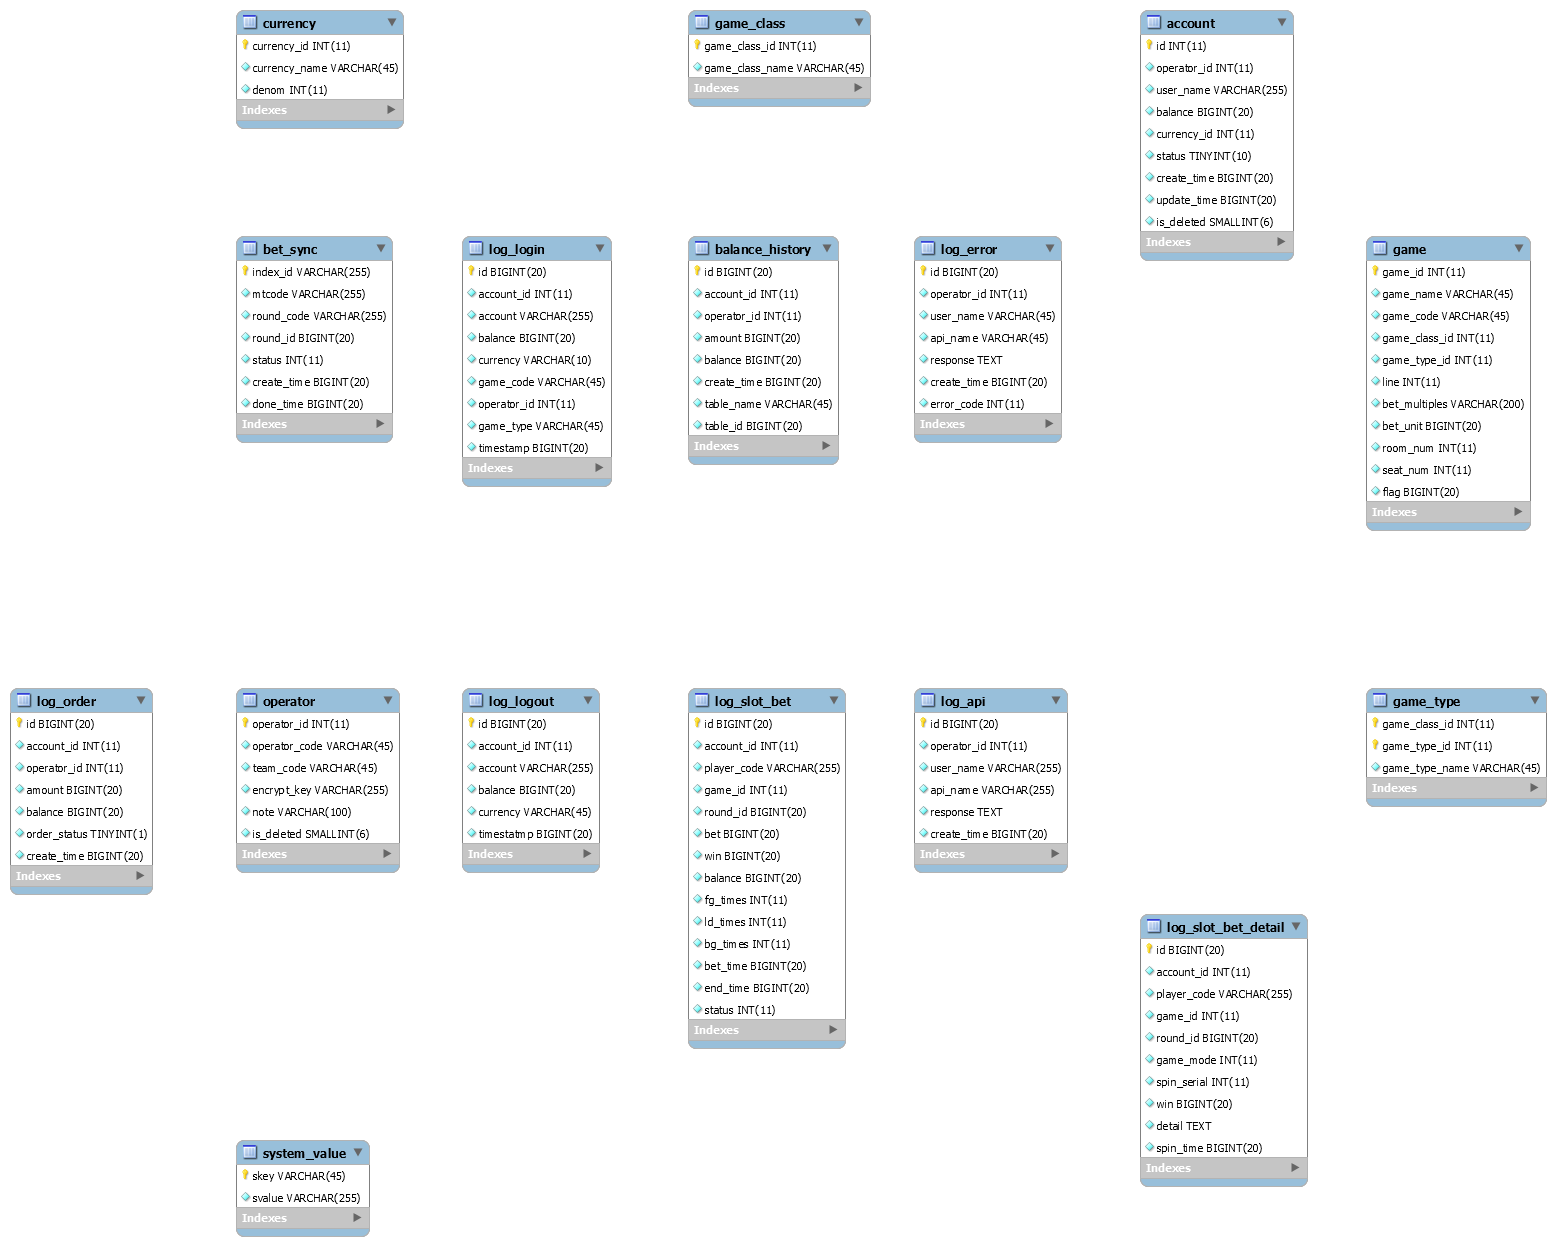
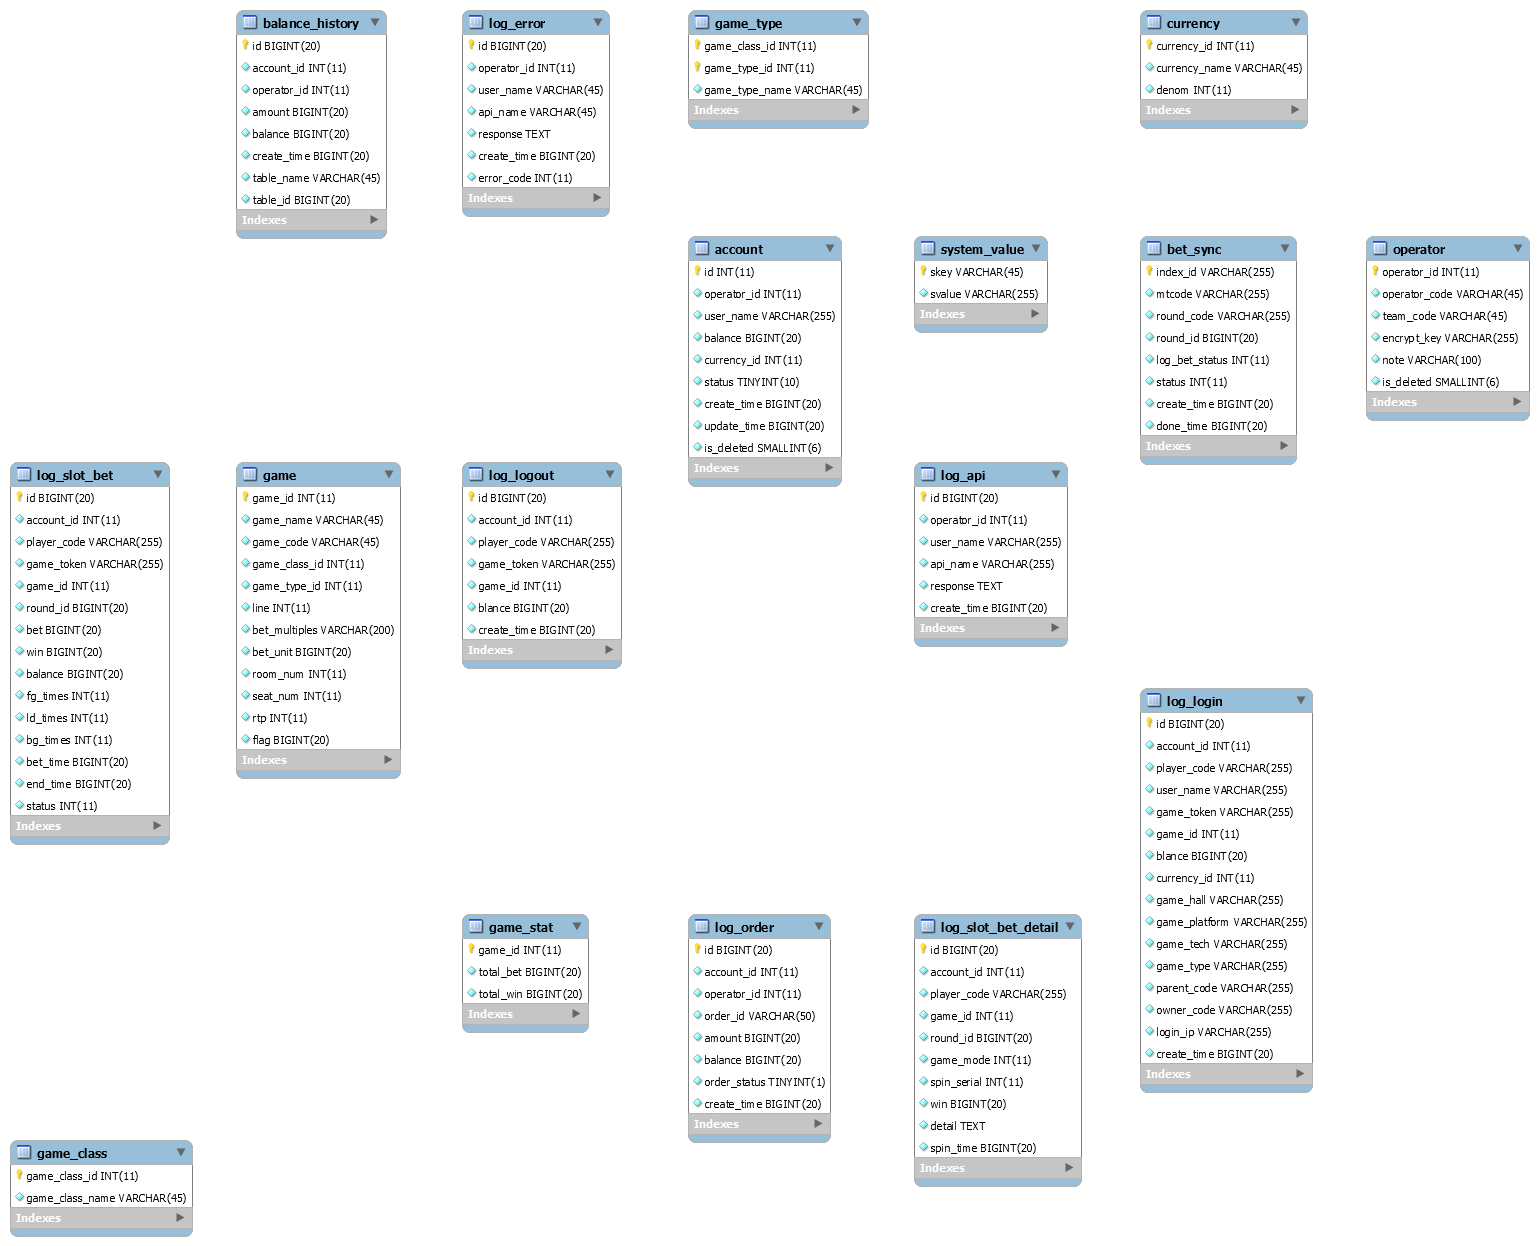
no message

diff --git a/server/digame_db.html b/server/digame_db.html
@@ -6,6 +6,7 @@
 <li><a href="#currency"><b>currency</b></a></li>
 <li><a href="#game"><b>game</b></a></li>
 <li><a href="#game_class"><b>game_class</b></a></li>
+<li><a href="#game_stat"><b>game_stat</b></a></li>
 <li><a href="#game_type"><b>game_type</b></a></li>
 <li><a href="#log_api"><b>log_api</b></a></li>
 <li><a href="#log_error"><b>log_error</b></a></li>
@@ -87,6 +88,7 @@
 <tr><td><code>mtcode</code></td><td>VARCHAR(255)</td><td>NOT NULL</td><td> </td><td>交易代碼</td></tr>
 <tr><td><code>round_code</code></td><td>VARCHAR(255)</td><td>NOT NULL</td><td> </td><td>局號</td></tr>
 <tr><td><code>round_id</code></td><td>BIGINT</td><td>NOT NULL</td><td> </td><td>局ID</td></tr>
+<tr><td><code>log_bet_status</code></td><td>INT</td><td>NOT NULL</td><td> </td><td>處理前的注單狀態<br />cq9用<br />0: 押注成功<br />1: win api失敗<br />2: win api成功<br />3: end api 成功<br />4: 已補帳</td></tr>
 <tr><td><code>status</code></td><td>INT</td><td>NOT NULL</td><td> </td><td>注單狀態<br />0: 待sync<br />1: 處理完畢</td></tr>
 <tr><td><code>create_time</code></td><td>BIGINT</td><td>NOT NULL</td><td> </td><td>建立時間</td></tr>
 <tr><td><code>done_time</code></td><td>BIGINT</td><td>NOT NULL</td><td> </td><td>完成時間</td></tr>
@@ -141,6 +143,7 @@
 <tr><td><code>bet_unit</code></td><td>BIGINT</td><td>NOT NULL</td><td> </td><td>押注單位<br />slot使用<br />bet_unit x bet_multiple x line = total bet</td></tr>
 <tr><td><code>room_num</code></td><td>INT</td><td>NOT NULL</td><td> </td><td>預開的房間數</td></tr>
 <tr><td><code>seat_num</code></td><td>INT</td><td>NOT NULL</td><td> </td><td>預開的座位數</td></tr>
+<tr><td><code>rtp</code></td><td>INT</td><td>NOT NULL</td><td> </td><td>預設的 rtp</td></tr>
 <tr><td><code>flag</code></td><td>BIGINT</td><td>NOT NULL</td><td> </td><td>旗標<br />每一個bit表示一個開關<br />0: 遊戲是否開放</td></tr>
 </tbody></table>
 
@@ -170,6 +173,28 @@
 <table><thead><tr class="header"><th align="left">Name</th><th align="left">Columns</th><th align="left">Data type</th><th align="left">Description</th></tr></thead><tbody>
 
 <tr><td>PRIMARY</td><td><code>game_class_id</code></td><td>PRIMARY</td><td> </td></tr>
+</tbody></table><a href="#d1_doc_gen_contents">To contents</a>
+
+<h2 id="game_stat"> Table: <code>game_stat</code></h2>
+
+<h3>Description:</h3>
+
+<p>遊戲統計</p>
+
+<h3>Columns:</h3>
+
+<table><thead><tr class="header"><th align="left">Column</th><th align="left">Data type</th><th align="left">Attribute</th><th align="left">Default</th><th align="left">Description</th></tr></thead><tbody>
+
+<tr><td><code>game_id</code></td><td>INT</td><td>PRIMARY, NOT NULL</td><td> </td><td>遊戲ID</td></tr>
+<tr><td><code>total_bet</code></td><td>BIGINT</td><td>NOT NULL</td><td> </td><td>總押注</td></tr>
+<tr><td><code>total_win</code></td><td>BIGINT</td><td>NOT NULL</td><td> </td><td>總贏的金額</td></tr>
+</tbody></table>
+
+<h3>Indexes:</h3>
+
+<table><thead><tr class="header"><th align="left">Name</th><th align="left">Columns</th><th align="left">Data type</th><th align="left">Description</th></tr></thead><tbody>
+
+<tr><td>PRIMARY</td><td><code>game_id</code></td><td>PRIMARY</td><td> </td></tr>
 </tbody></table><a href="#d1_doc_gen_contents">To contents</a>
 
 <h2 id="game_type"> Table: <code>game_type</code></h2>
@@ -249,21 +274,28 @@
 
 <h3>Description:</h3>
 
-<p></p>
+<p>登入資訊</p>
 
 <h3>Columns:</h3>
 
 <table><thead><tr class="header"><th align="left">Column</th><th align="left">Data type</th><th align="left">Attribute</th><th align="left">Default</th><th align="left">Description</th></tr></thead><tbody>
 
-<tr><td><code>id</code></td><td>BIGINT</td><td>PRIMARY, AUTO INCREMENTS, NOT NULL</td><td> </td><td> </td></tr>
-<tr><td><code>account_id</code></td><td>INT</td><td>NOT NULL</td><td> </td><td> </td></tr>
-<tr><td><code>account</code></td><td>VARCHAR(255)</td><td>NOT NULL</td><td> </td><td> </td></tr>
-<tr><td><code>balance</code></td><td>BIGINT</td><td>NOT NULL</td><td> </td><td> </td></tr>
-<tr><td><code>currency</code></td><td>VARCHAR(10)</td><td>NOT NULL</td><td> </td><td> </td></tr>
-<tr><td><code>game_code</code></td><td>VARCHAR(45)</td><td>NOT NULL</td><td> </td><td> </td></tr>
-<tr><td><code>operator_id</code></td><td>INT</td><td>NOT NULL</td><td> </td><td> </td></tr>
-<tr><td><code>game_type</code></td><td>VARCHAR(45)</td><td>NOT NULL</td><td> </td><td> </td></tr>
-<tr><td><code>timestamp</code></td><td>BIGINT</td><td>NOT NULL</td><td> </td><td> </td></tr>
+<tr><td><code>id</code></td><td>BIGINT</td><td>PRIMARY, AUTO INCREMENTS, NOT NULL</td><td> </td><td>流水號</td></tr>
+<tr><td><code>account_id</code></td><td>INT</td><td>NOT NULL</td><td> </td><td>帳號ID</td></tr>
+<tr><td><code>player_code</code></td><td>VARCHAR(255)</td><td>NOT NULL</td><td> </td><td>玩家代碼<br />cq9用</td></tr>
+<tr><td><code>user_name</code></td><td>VARCHAR(255)</td><td>NOT NULL</td><td> </td><td>使用者名稱</td></tr>
+<tr><td><code>game_token</code></td><td>VARCHAR(255)</td><td>NOT NULL</td><td> </td><td>遊戲token</td></tr>
+<tr><td><code>game_id</code></td><td>INT</td><td>NOT NULL</td><td> </td><td>遊戲ID</td></tr>
+<tr><td><code>blance</code></td><td>BIGINT</td><td>NOT NULL</td><td> </td><td>餘額</td></tr>
+<tr><td><code>currency_id</code></td><td>INT</td><td>NOT NULL</td><td> </td><td>貨幣ID</td></tr>
+<tr><td><code>game_hall</code></td><td>VARCHAR(255)</td><td>NOT NULL</td><td> </td><td>遊戲廠商<br />cq9用</td></tr>
+<tr><td><code>game_platform</code></td><td>VARCHAR(255)</td><td>NOT NULL</td><td> </td><td>遊戲平台<br />cq9用</td></tr>
+<tr><td><code>game_tech</code></td><td>VARCHAR(255)</td><td>NOT NULL</td><td> </td><td>使用技術<br />cq9用</td></tr>
+<tr><td><code>game_type</code></td><td>VARCHAR(255)</td><td>NOT NULL</td><td> </td><td>遊戲類型<br />cq9用</td></tr>
+<tr><td><code>parent_code</code></td><td>VARCHAR(255)</td><td>NOT NULL</td><td> </td><td>代理ID<br />cq9用</td></tr>
+<tr><td><code>owner_code</code></td><td>VARCHAR(255)</td><td>NOT NULL</td><td> </td><td>上層代理ID<br />cq9用</td></tr>
+<tr><td><code>login_ip</code></td><td>VARCHAR(255)</td><td>NOT NULL</td><td> </td><td>登入IP</td></tr>
+<tr><td><code>create_time</code></td><td>BIGINT</td><td>NOT NULL</td><td> </td><td>建立時間</td></tr>
 </tbody></table>
 
 <h3>Indexes:</h3>
@@ -277,18 +309,19 @@
 
 <h3>Description:</h3>
 
-<p></p>
+<p>登出資訊</p>
 
 <h3>Columns:</h3>
 
 <table><thead><tr class="header"><th align="left">Column</th><th align="left">Data type</th><th align="left">Attribute</th><th align="left">Default</th><th align="left">Description</th></tr></thead><tbody>
 
-<tr><td><code>id</code></td><td>BIGINT</td><td>PRIMARY, AUTO INCREMENTS, NOT NULL</td><td> </td><td> </td></tr>
-<tr><td><code>account_id</code></td><td>INT</td><td>NOT NULL</td><td> </td><td> </td></tr>
-<tr><td><code>account</code></td><td>VARCHAR(255)</td><td>NOT NULL</td><td> </td><td> </td></tr>
-<tr><td><code>balance</code></td><td>BIGINT</td><td>NOT NULL</td><td> </td><td> </td></tr>
-<tr><td><code>currency</code></td><td>VARCHAR(45)</td><td>NOT NULL</td><td> </td><td> </td></tr>
-<tr><td><code>timestatmp</code></td><td>BIGINT</td><td>NOT NULL</td><td> </td><td> </td></tr>
+<tr><td><code>id</code></td><td>BIGINT</td><td>PRIMARY, AUTO INCREMENTS, NOT NULL</td><td> </td><td>流水號</td></tr>
+<tr><td><code>account_id</code></td><td>INT</td><td>NOT NULL</td><td> </td><td>帳號ID</td></tr>
+<tr><td><code>player_code</code></td><td>VARCHAR(255)</td><td>NOT NULL</td><td> </td><td>玩家代碼<br />cq9用</td></tr>
+<tr><td><code>game_token</code></td><td>VARCHAR(255)</td><td>NOT NULL</td><td> </td><td>遊戲token</td></tr>
+<tr><td><code>game_id</code></td><td>INT</td><td>NOT NULL</td><td> </td><td>遊戲ID</td></tr>
+<tr><td><code>blance</code></td><td>BIGINT</td><td>NOT NULL</td><td> </td><td>餘額</td></tr>
+<tr><td><code>create_time</code></td><td>BIGINT</td><td>NOT NULL</td><td> </td><td>建立時間</td></tr>
 </tbody></table>
 
 <h3>Indexes:</h3>
@@ -311,6 +344,7 @@
 <tr><td><code>id</code></td><td>BIGINT</td><td>PRIMARY, AUTO INCREMENTS, NOT NULL</td><td> </td><td>單號</td></tr>
 <tr><td><code>account_id</code></td><td>INT</td><td>NOT NULL</td><td> </td><td>帳號ID</td></tr>
 <tr><td><code>operator_id</code></td><td>INT</td><td>NOT NULL</td><td> </td><td>營運商ID</td></tr>
+<tr><td><code>order_id</code></td><td>VARCHAR(50)</td><td>NOT NULL</td><td> </td><td> </td></tr>
 <tr><td><code>amount</code></td><td>BIGINT</td><td>NOT NULL</td><td> </td><td>金額<br />正數: 轉入錢包<br />負數: 轉出錢包</td></tr>
 <tr><td><code>balance</code></td><td>BIGINT</td><td>NOT NULL</td><td> </td><td>操作完後的餘額</td></tr>
 <tr><td><code>order_status</code></td><td>TINYINT</td><td>NOT NULL</td><td> </td><td>交易狀態<br />0: 成功<br />1: 餘額不足</td></tr>
@@ -337,6 +371,7 @@
 <tr><td><code>id</code></td><td>BIGINT</td><td>PRIMARY, AUTO INCREMENTS, NOT NULL</td><td> </td><td>流水號</td></tr>
 <tr><td><code>account_id</code></td><td>INT</td><td>NOT NULL</td><td> </td><td>帳號ID</td></tr>
 <tr><td><code>player_code</code></td><td>VARCHAR(255)</td><td>NOT NULL</td><td> </td><td>玩家代碼<br />cq9用</td></tr>
+<tr><td><code>game_token</code></td><td>VARCHAR(255)</td><td>NOT NULL</td><td> </td><td>遊戲token</td></tr>
 <tr><td><code>game_id</code></td><td>INT</td><td>NOT NULL</td><td> </td><td>遊戲ID</td></tr>
 <tr><td><code>round_id</code></td><td>BIGINT</td><td>NOT NULL, UNIQUE</td><td> </td><td>局ID</td></tr>
 <tr><td><code>bet</code></td><td>BIGINT</td><td>NOT NULL</td><td> </td><td>押注</td></tr>
@@ -372,7 +407,7 @@
 <tr><td><code>account_id</code></td><td>INT</td><td>NOT NULL</td><td> </td><td>帳號ID</td></tr>
 <tr><td><code>player_code</code></td><td>VARCHAR(255)</td><td>NOT NULL</td><td> </td><td>玩家代碼<br />cq9用</td></tr>
 <tr><td><code>game_id</code></td><td>INT</td><td>NOT NULL</td><td> </td><td>遊戲ID</td></tr>
-<tr><td><code>round_id</code></td><td>BIGINT</td><td>NOT NULL, UNIQUE</td><td> </td><td>局ID</td></tr>
+<tr><td><code>round_id</code></td><td>BIGINT</td><td>NOT NULL</td><td> </td><td>局ID</td></tr>
 <tr><td><code>game_mode</code></td><td>INT</td><td>NOT NULL</td><td> </td><td>遊戲模式<br />0: base game<br />1: bonus game<br />2: lucky draw<br />3: free game</td></tr>
 <tr><td><code>spin_serial</code></td><td>INT</td><td>NOT NULL</td><td> </td><td>此局一輪中bonus game play、lucky draw play、free game spin的流水號</td></tr>
 <tr><td><code>win</code></td><td>BIGINT</td><td>NOT NULL</td><td> </td><td>贏的金額</td></tr>
@@ -385,7 +420,6 @@
 <table><thead><tr class="header"><th align="left">Name</th><th align="left">Columns</th><th align="left">Data type</th><th align="left">Description</th></tr></thead><tbody>
 
 <tr><td>PRIMARY</td><td><code>id</code></td><td>PRIMARY</td><td> </td></tr>
-<tr><td>round_id_UNIQUE</td><td><code>round_id</code></td><td>UNIQUE</td><td> </td></tr>
 </tbody></table><a href="#d1_doc_gen_contents">To contents</a>
 
 <h2 id="operator"> Table: <code>operator</code></h2>
@@ -423,7 +457,7 @@
 
 <table><thead><tr class="header"><th align="left">Column</th><th align="left">Data type</th><th align="left">Attribute</th><th align="left">Default</th><th align="left">Description</th></tr></thead><tbody>
 
-<tr><td><code>skey</code></td><td>VARCHAR(45)</td><td>PRIMARY, NOT NULL</td><td> </td><td>key<br />last_bet_sync_time: 上次注單與cq9同步的時間<br />slot_round_id: slot的round id, 當作除注單round id外的另一個備援資料<br />money_fraction_multiple: 錢小數轉整數時要乘的倍數; 以整數型態保存, 轉為小數需除以此欄位</td></tr>
+<tr><td><code>skey</code></td><td>VARCHAR(45)</td><td>PRIMARY, NOT NULL</td><td> </td><td>key<br />last_bet_sync_time: 上次注單與cq9同步的時間<br />slot_round_id: slot的round id, 當作除注單round id外的另一個備援資料<br />money_fraction_multiple: 錢小數轉整數時要乘的倍數; 以整數型態保存, 轉為小數需除以此欄位<br />round_code_prefix: 局號 prefix<br />cq9_env: cq9 環境<br />cq9_auth_header_key: cq9 api auth header key<br />cq9_auth_header_value: cq9 api auth header value<br />cq9_site_url: cq9 API base url<br />cq9_max_win: cq9單一spin允許的最大贏取金額</td></tr>
 <tr><td><code>svalue</code></td><td>VARCHAR(255)</td><td>NOT NULL</td><td> </td><td>value</td></tr>
 </tbody></table>
 

diff --git a/server/digame_db.md b/server/digame_db.md
@@ -71,6 +71,7 @@ cq9待同步注單的資料
 | `mtcode` | VARCHAR(255) | Not null |   | 交易代碼 |
 | `round_code` | VARCHAR(255) | Not null |   | 局號 |
 | `round_id` | BIGINT | Not null |   | 局ID |
+| `log_bet_status` | INT | Not null |   | 處理前的注單狀態<br />cq9用<br />0: 押注成功<br />1: win api失敗<br />2: win api成功<br />3: end api 成功<br />4: 已補帳 |
 | `status` | INT | Not null |   | 注單狀態<br />0: 待sync<br />1: 處理完畢 |
 | `create_time` | BIGINT | Not null |   | 建立時間 |
 | `done_time` | BIGINT | Not null |   | 完成時間 |
@@ -125,6 +126,7 @@ cq9待同步注單的資料
 | `bet_unit` | BIGINT | Not null |   | 押注單位<br />slot使用<br />bet_unit x bet_multiple x line = total bet |
 | `room_num` | INT | Not null |   | 預開的房間數 |
 | `seat_num` | INT | Not null |   | 預開的座位數 |
+| `rtp` | INT | Not null |   | 預設的 rtp |
 | `flag` | BIGINT | Not null |   | 旗標<br />每一個bit表示一個開關<br />0: 遊戲是否開放 |
 
 
@@ -154,6 +156,28 @@ cq9待同步注單的資料
 | Name | Columns | Type | Description |
 | --- | --- | --- | --- |
 | PRIMARY | `game_class_id` | PRIMARY |   |
+
+
+## Table: `game_stat`
+
+### Description: 
+
+遊戲統計
+
+### Columns: 
+
+| Column | Data type | Attributes | Default | Description |
+| --- | --- | --- | --- | ---  |
+| `game_id` | INT | PRIMARY, Not null |   | 遊戲ID |
+| `total_bet` | BIGINT | Not null |   | 總押注 |
+| `total_win` | BIGINT | Not null |   | 總贏的金額 |
+
+
+### Indices: 
+
+| Name | Columns | Type | Description |
+| --- | --- | --- | --- |
+| PRIMARY | `game_id` | PRIMARY |   |
 
 
 ## Table: `game_type`
@@ -233,21 +257,28 @@ api request/response紀錄
 
 ### Description: 
 
-
+登入資訊
 
 ### Columns: 
 
 | Column | Data type | Attributes | Default | Description |
 | --- | --- | --- | --- | ---  |
-| `id` | BIGINT | PRIMARY, Auto increments, Not null |   |   |
-| `account_id` | INT | Not null |   |   |
-| `account` | VARCHAR(255) | Not null |   |   |
-| `balance` | BIGINT | Not null |   |   |
-| `currency` | VARCHAR(10) | Not null |   |   |
-| `game_code` | VARCHAR(45) | Not null |   |   |
-| `operator_id` | INT | Not null |   |   |
-| `game_type` | VARCHAR(45) | Not null |   |   |
-| `timestamp` | BIGINT | Not null |   |   |
+| `id` | BIGINT | PRIMARY, Auto increments, Not null |   | 流水號 |
+| `account_id` | INT | Not null |   | 帳號ID |
+| `player_code` | VARCHAR(255) | Not null |   | 玩家代碼<br />cq9用 |
+| `user_name` | VARCHAR(255) | Not null |   | 使用者名稱 |
+| `game_token` | VARCHAR(255) | Not null |   | 遊戲token |
+| `game_id` | INT | Not null |   | 遊戲ID |
+| `blance` | BIGINT | Not null |   | 餘額 |
+| `currency_id` | INT | Not null |   | 貨幣ID |
+| `game_hall` | VARCHAR(255) | Not null |   | 遊戲廠商<br />cq9用 |
+| `game_platform` | VARCHAR(255) | Not null |   | 遊戲平台<br />cq9用 |
+| `game_tech` | VARCHAR(255) | Not null |   | 使用技術<br />cq9用 |
+| `game_type` | VARCHAR(255) | Not null |   | 遊戲類型<br />cq9用 |
+| `parent_code` | VARCHAR(255) | Not null |   | 代理ID<br />cq9用 |
+| `owner_code` | VARCHAR(255) | Not null |   | 上層代理ID<br />cq9用 |
+| `login_ip` | VARCHAR(255) | Not null |   | 登入IP |
+| `create_time` | BIGINT | Not null |   | 建立時間 |
 
 
 ### Indices: 
@@ -261,18 +292,19 @@ api request/response紀錄
 
 ### Description: 
 
-
+登出資訊
 
 ### Columns: 
 
 | Column | Data type | Attributes | Default | Description |
 | --- | --- | --- | --- | ---  |
-| `id` | BIGINT | PRIMARY, Auto increments, Not null |   |   |
-| `account_id` | INT | Not null |   |   |
-| `account` | VARCHAR(255) | Not null |   |   |
-| `balance` | BIGINT | Not null |   |   |
-| `currency` | VARCHAR(45) | Not null |   |   |
-| `timestatmp` | BIGINT | Not null |   |   |
+| `id` | BIGINT | PRIMARY, Auto increments, Not null |   | 流水號 |
+| `account_id` | INT | Not null |   | 帳號ID |
+| `player_code` | VARCHAR(255) | Not null |   | 玩家代碼<br />cq9用 |
+| `game_token` | VARCHAR(255) | Not null |   | 遊戲token |
+| `game_id` | INT | Not null |   | 遊戲ID |
+| `blance` | BIGINT | Not null |   | 餘額 |
+| `create_time` | BIGINT | Not null |   | 建立時間 |
 
 
 ### Indices: 
@@ -295,6 +327,7 @@ api request/response紀錄
 | `id` | BIGINT | PRIMARY, Auto increments, Not null |   | 單號 |
 | `account_id` | INT | Not null |   | 帳號ID |
 | `operator_id` | INT | Not null |   | 營運商ID |
+| `order_id` | VARCHAR(50) | Not null |   |   |
 | `amount` | BIGINT | Not null |   | 金額<br />正數: 轉入錢包<br />負數: 轉出錢包 |
 | `balance` | BIGINT | Not null |   | 操作完後的餘額 |
 | `order_status` | TINYINT | Not null |   | 交易狀態<br />0: 成功<br />1: 餘額不足 |
@@ -321,6 +354,7 @@ slot的注單<br />一局會有一個注單
 | `id` | BIGINT | PRIMARY, Auto increments, Not null |   | 流水號 |
 | `account_id` | INT | Not null |   | 帳號ID |
 | `player_code` | VARCHAR(255) | Not null |   | 玩家代碼<br />cq9用 |
+| `game_token` | VARCHAR(255) | Not null |   | 遊戲token |
 | `game_id` | INT | Not null |   | 遊戲ID |
 | `round_id` | BIGINT | Not null, Unique |   | 局ID |
 | `bet` | BIGINT | Not null |   | 押注 |
@@ -356,7 +390,7 @@ slot的細單<br />每個spin對應一個細單
 | `account_id` | INT | Not null |   | 帳號ID |
 | `player_code` | VARCHAR(255) | Not null |   | 玩家代碼<br />cq9用 |
 | `game_id` | INT | Not null |   | 遊戲ID |
-| `round_id` | BIGINT | Not null, Unique |   | 局ID |
+| `round_id` | BIGINT | Not null |   | 局ID |
 | `game_mode` | INT | Not null |   | 遊戲模式<br />0: base game<br />1: bonus game<br />2: lucky draw<br />3: free game |
 | `spin_serial` | INT | Not null |   | 此局一輪中bonus game play、lucky draw play、free game spin的流水號 |
 | `win` | BIGINT | Not null |   | 贏的金額 |
@@ -369,7 +403,6 @@ slot的細單<br />每個spin對應一個細單
 | Name | Columns | Type | Description |
 | --- | --- | --- | --- |
 | PRIMARY | `id` | PRIMARY |   |
-| round_id_UNIQUE | `round_id` | UNIQUE |   |
 
 
 ## Table: `operator`
@@ -407,7 +440,7 @@ slot的細單<br />每個spin對應一個細單
 
 | Column | Data type | Attributes | Default | Description |
 | --- | --- | --- | --- | ---  |
-| `skey` | VARCHAR(45) | PRIMARY, Not null |   | key<br />last_bet_sync_time: 上次注單與cq9同步的時間<br />slot_round_id: slot的round id, 當作除注單round id外的另一個備援資料<br />money_fraction_multiple: 錢小數轉整數時要乘的倍數; 以整數型態保存, 轉為小數需除以此欄位 |
+| `skey` | VARCHAR(45) | PRIMARY, Not null |   | key<br />last_bet_sync_time: 上次注單與cq9同步的時間<br />slot_round_id: slot的round id, 當作除注單round id外的另一個備援資料<br />money_fraction_multiple: 錢小數轉整數時要乘的倍數; 以整數型態保存, 轉為小數需除以此欄位<br />round_code_prefix: 局號 prefix<br />cq9_env: cq9 環境<br />cq9_auth_header_key: cq9 api auth header key<br />cq9_auth_header_value: cq9 api auth header value<br />cq9_site_url: cq9 API base url<br />cq9_max_win: cq9單一spin允許的最大贏取金額 |
 | `svalue` | VARCHAR(255) | Not null |   | value |
 
 
